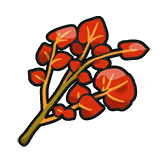
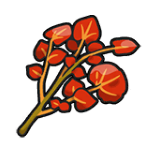
fixed header images

diff --git a/index.html b/index.html
@@ -28,15 +28,15 @@
     <header id="top">
       <div class="topbar">
       <h1>Herba Mystica Guide</h1>
-        <img class="herba-sprite" id="herba_sprite" src="./assets/bitter_herba_mystica.png" alt="sprite of bitter herba mystica">
+        <img class="herba-sprite" id="herba_sprite" src="./assets/Bitter_Herba_Mystica.png" alt="sprite of bitter herba mystica">
         </img>
         <img class="herba-sprite" id="herba_sprite" src="./assets/Salty_Herba_Mystica.png" alt="sprite of salty herba mystica">
         </img>
-        <img class="herba-sprite" id="herba_sprite" src="./assets/sour_herba_mystica.png" alt="sprite of sour herba mystica">
+        <img class="herba-sprite" id="herba_sprite" src="./assets/Sour_Herba_Mystica.png" alt="sprite of sour herba mystica">
         </img>
-        <img class="herba-sprite" id="herba_sprite" src="./assets/spicy_herba_mystica.png" alt="sprite of spicy herba mystica">
+        <img class="herba-sprite" id="herba_sprite" src="./assets/Spicy_Herba_Mystica.png" alt="sprite of spicy herba mystica">
         </img>
-        <img class="herba-sprite" id="herba_sprite" src="./assets/sweet_herba_mystica.png" alt="sprite of sweet herba mystica">
+        <img class="herba-sprite" id="herba_sprite" src="./assets/Sweet_Herba_Mystica.png" alt="sprite of sweet herba mystica">
         </img>
       </div>
     </header> 
